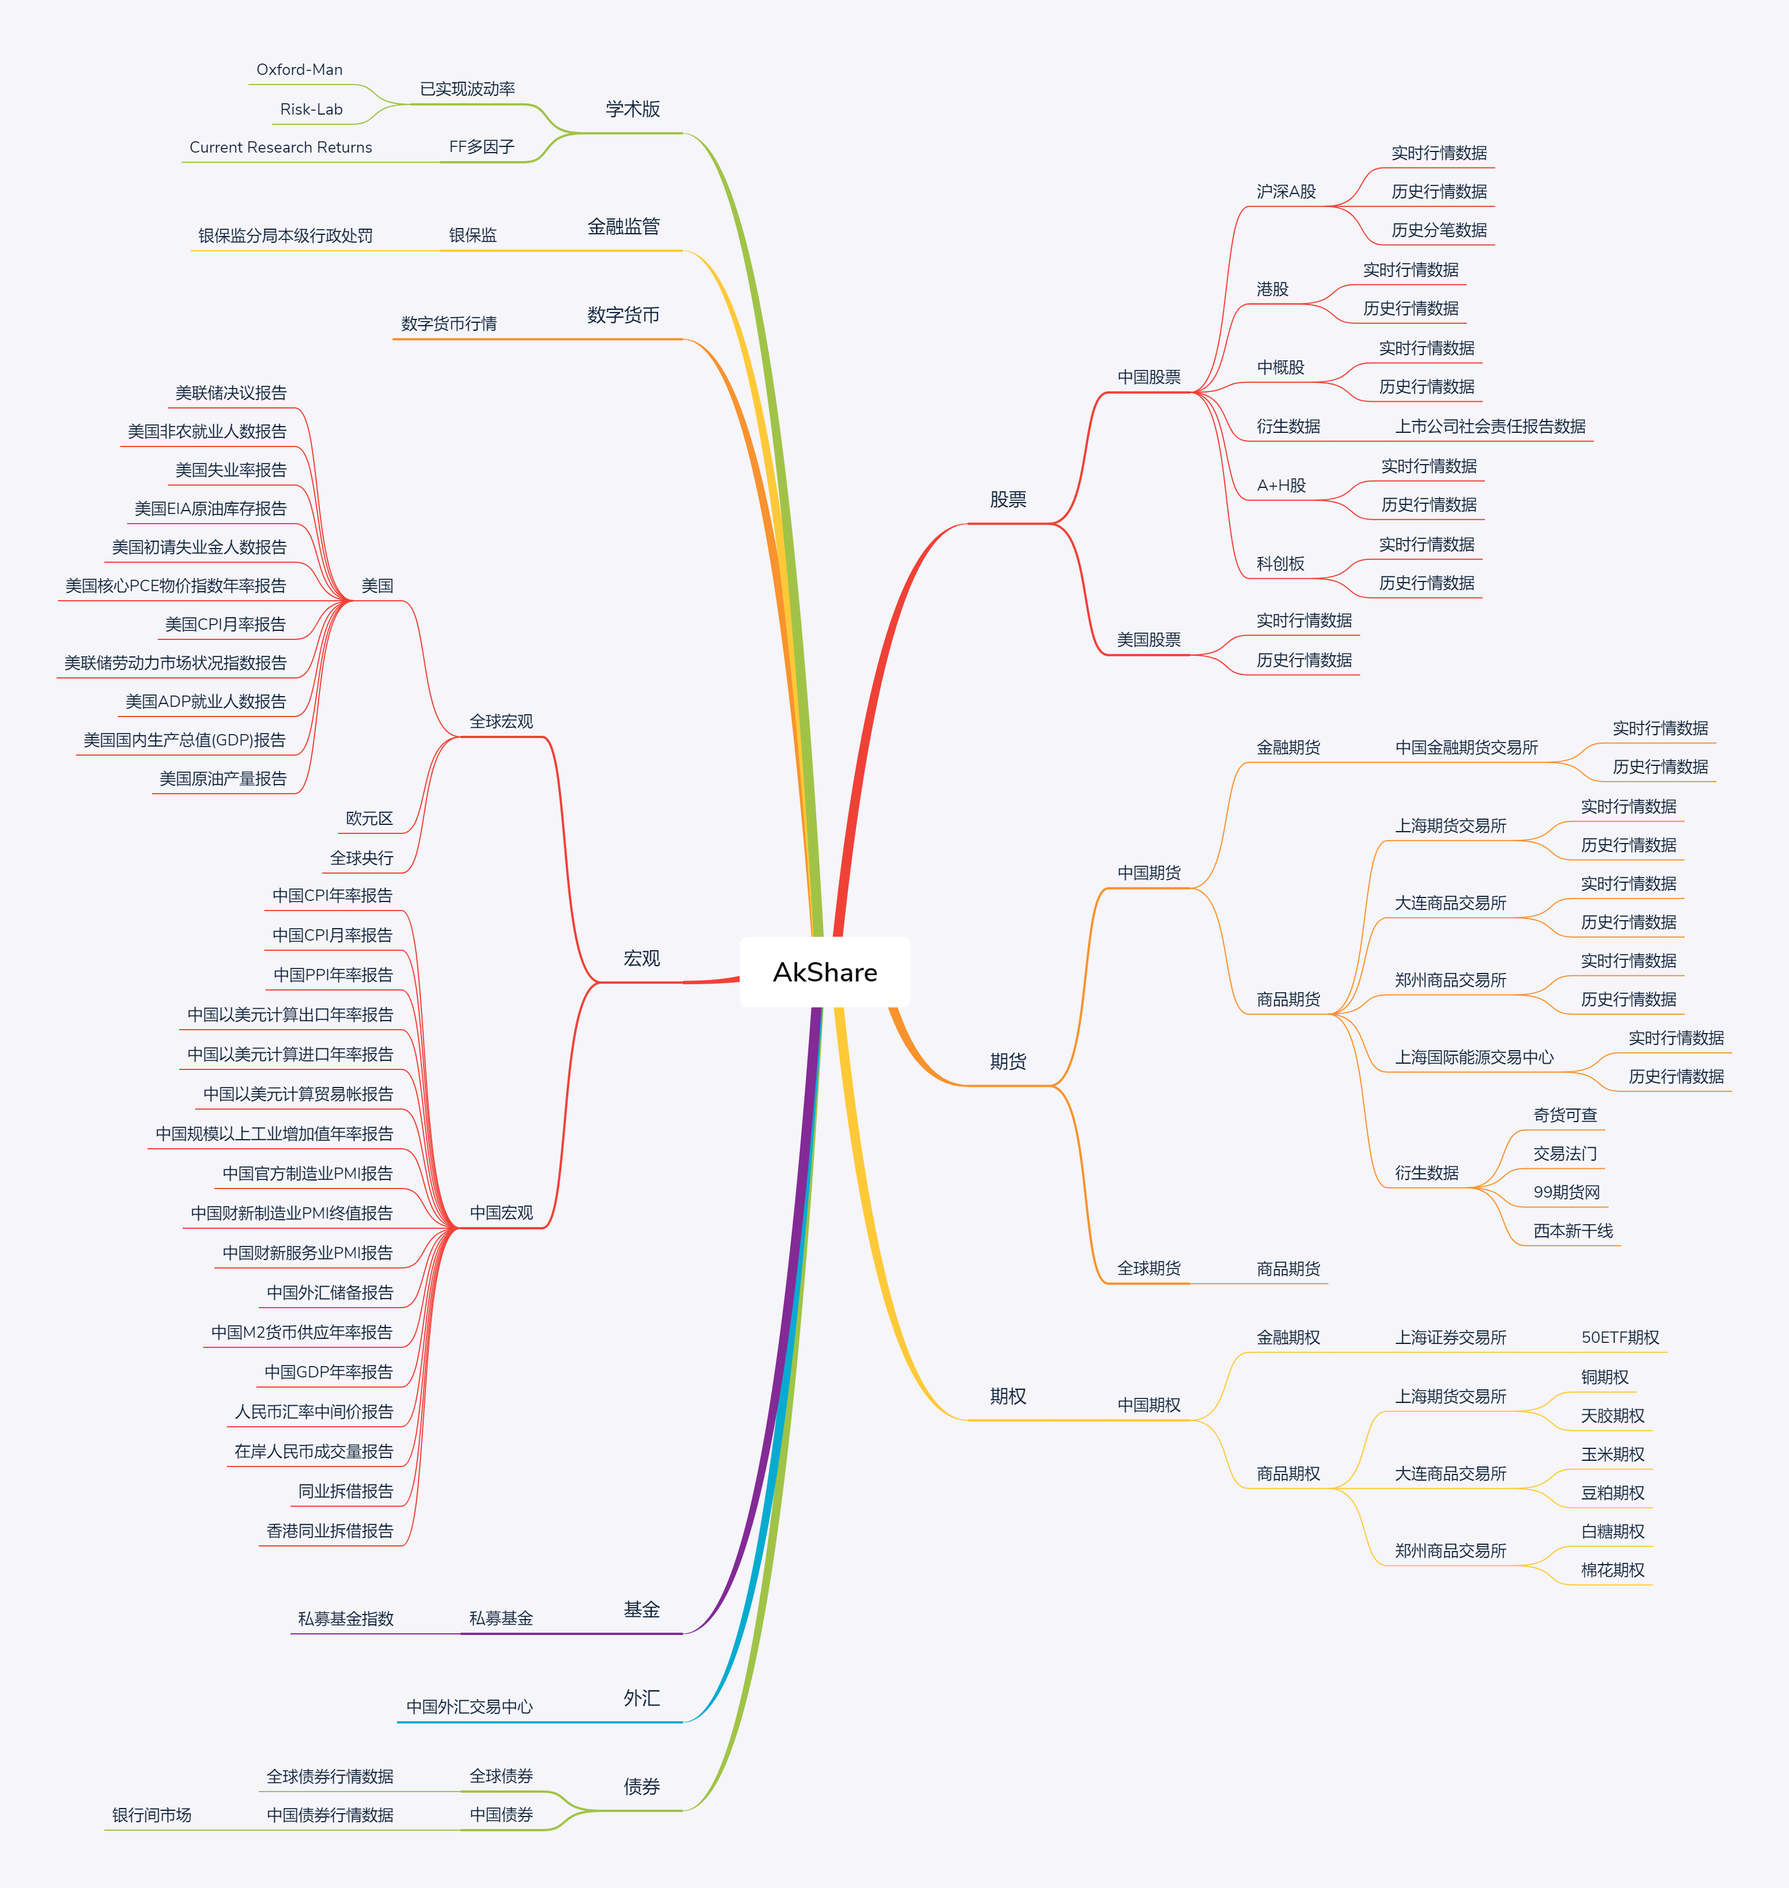
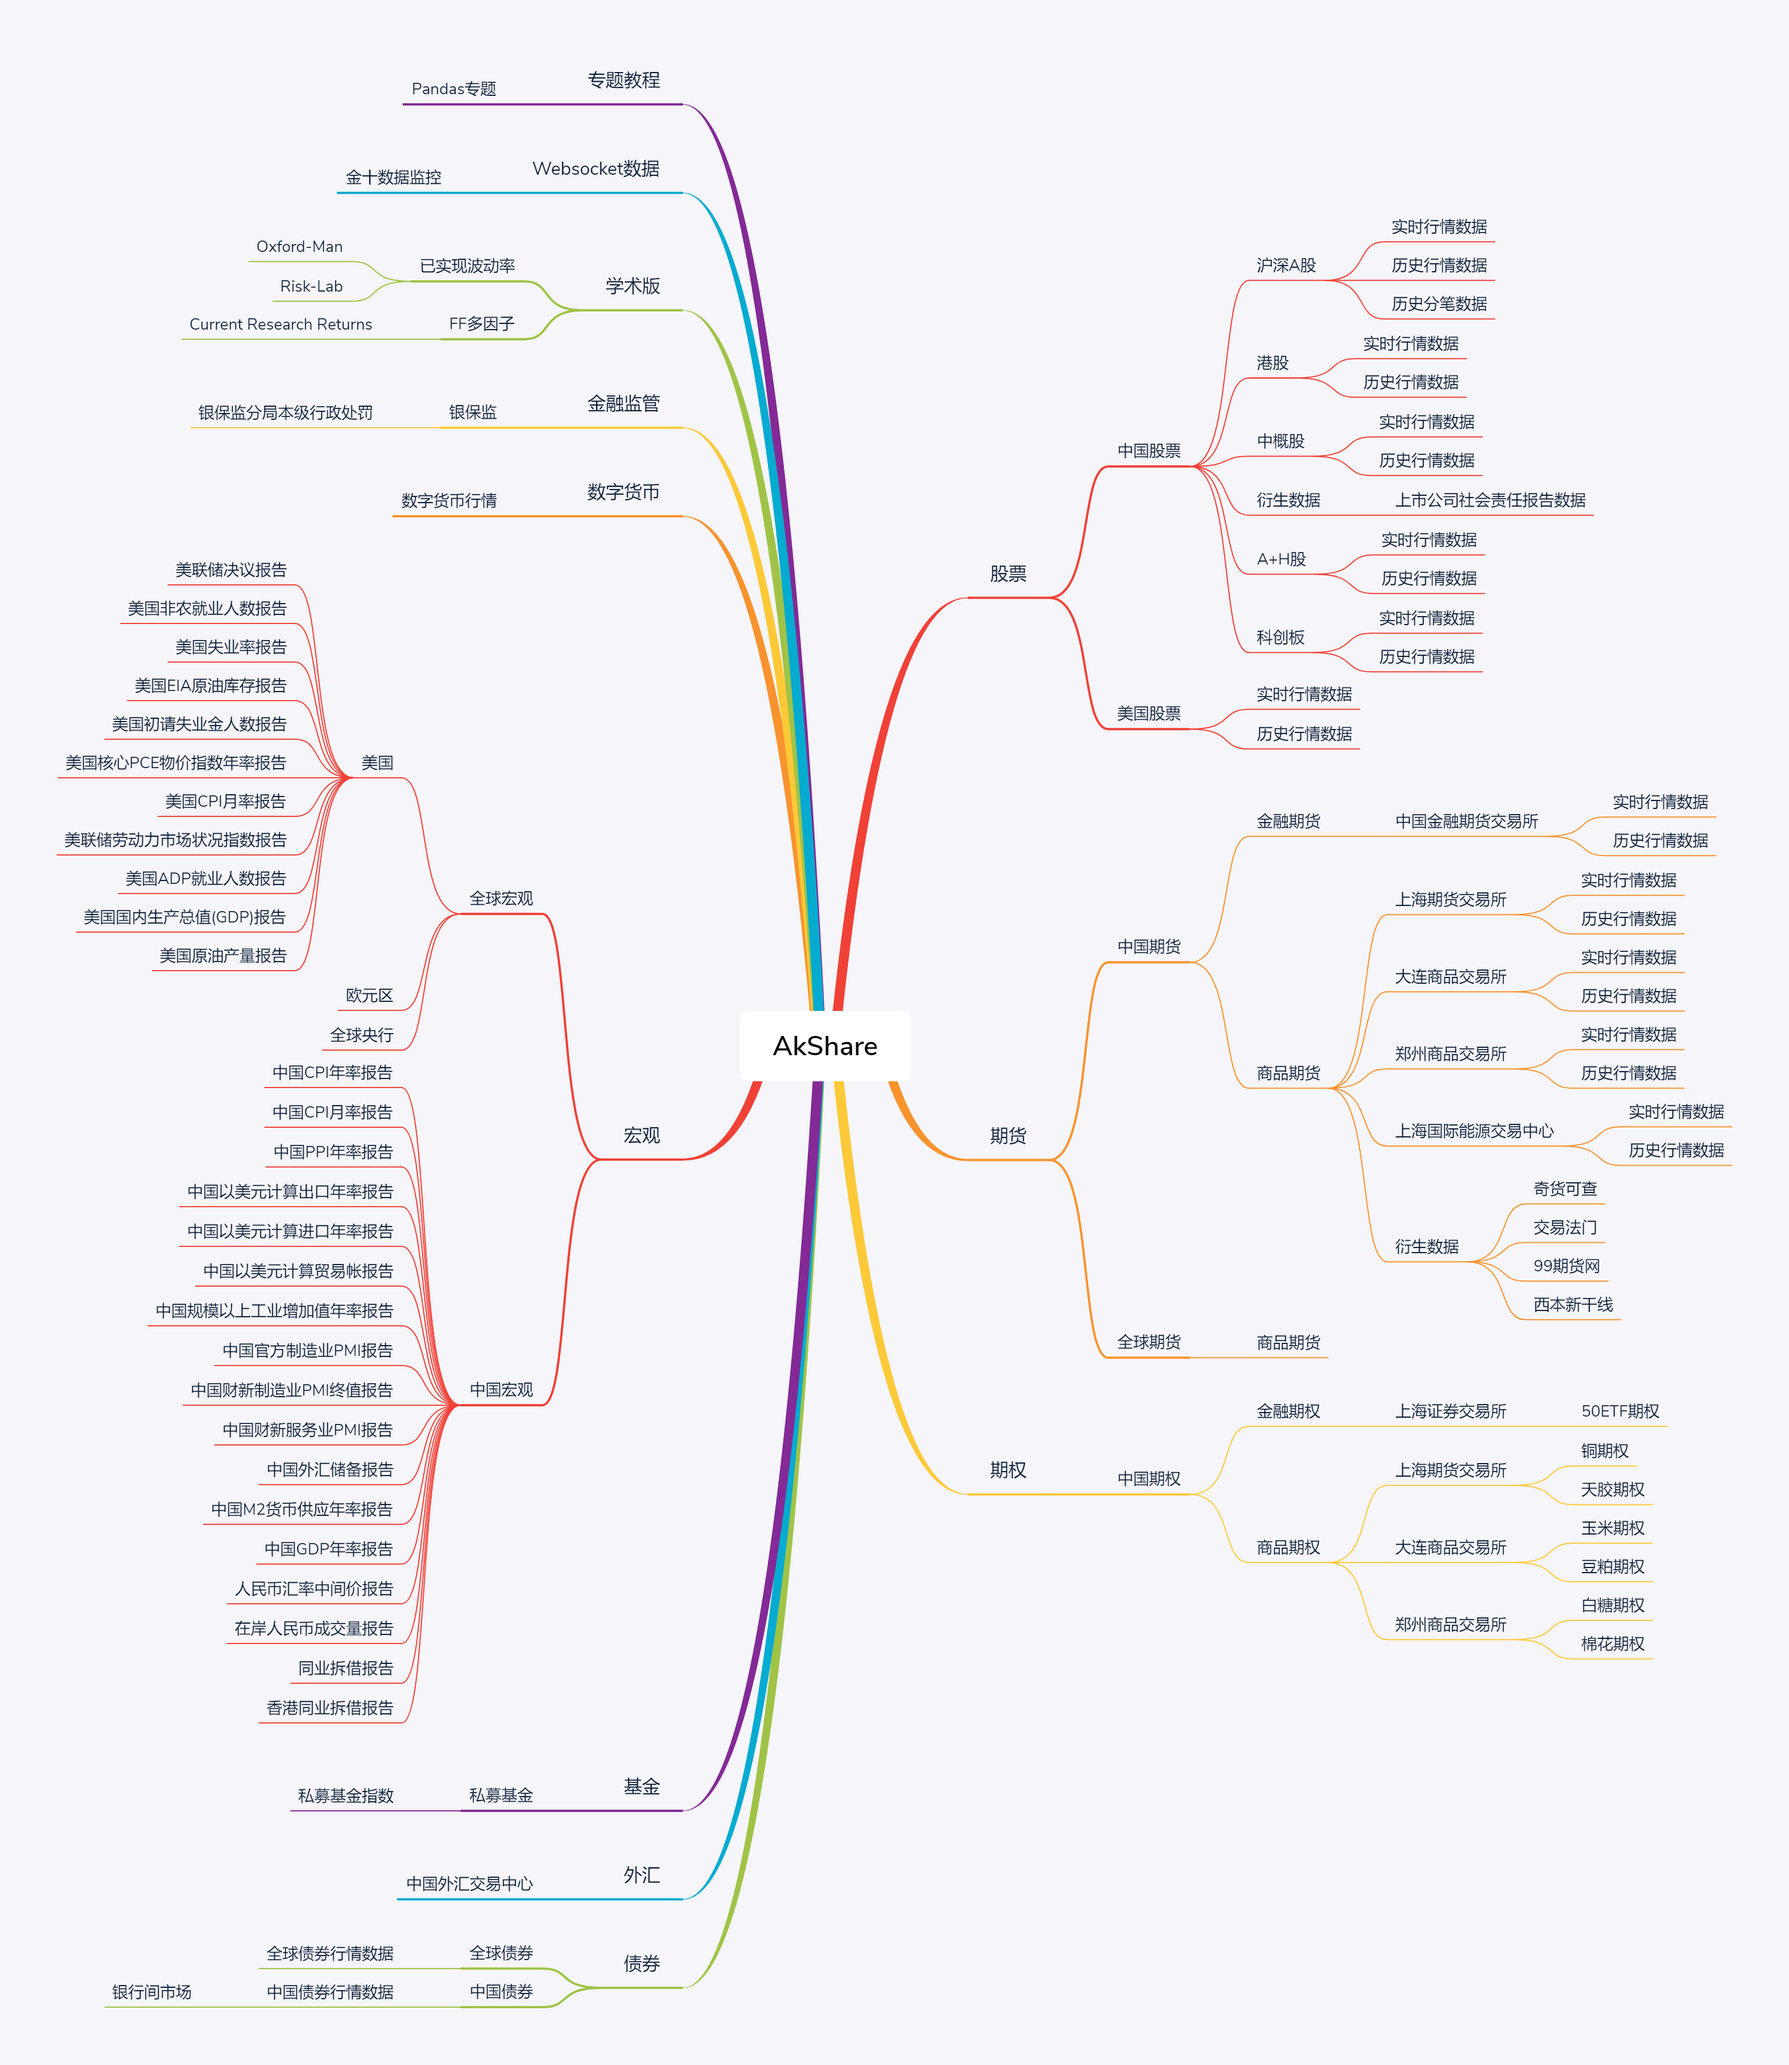
update mindmap

diff --git a/akshare/__init__.py b/akshare/__init__.py
@@ -305,9 +305,11 @@ PCE物价指数年率报告
 更新专题板块
 0.2.41
 更新说明文件
+0.2.42
+更新mindmap
 """
 
-__version__ = '0.2.41'
+__version__ = '0.2.42'
 __author__ = 'Albert King'
 
 """

diff --git a/docs/source/akshare/ak-introduction.md b/docs/source/akshare/ak-introduction.md
@@ -92,7 +92,7 @@
 7. 提供完善的接口文档, 提高 [AkShare](https://github.com/jindaxiang/akshare) 的易用性;
 8. 希望您能参与 [AkShare GitHub](https://github.com/jindaxiang/akshare) 的维护与管理.
 
-![](https://jfds-1252952517.cos.ap-chengdu.myqcloud.com/akshare/readme/mindmap/AkShare.png)
+![](https://github.com/jindaxiang/akshare/blob/master/example/images/AkShare.png)
 
 ## [AkShare](https://github.com/jindaxiang/akshare) 的初衷
 

diff --git a/docs/source/akshare/ak-changelog.md b/docs/source/akshare/ak-changelog.md
@@ -393,4 +393,7 @@ PCE物价指数年率报告
 
 0.2.41
 更新说明文件
+
+0.2.42
+更新mindmap
 ```
